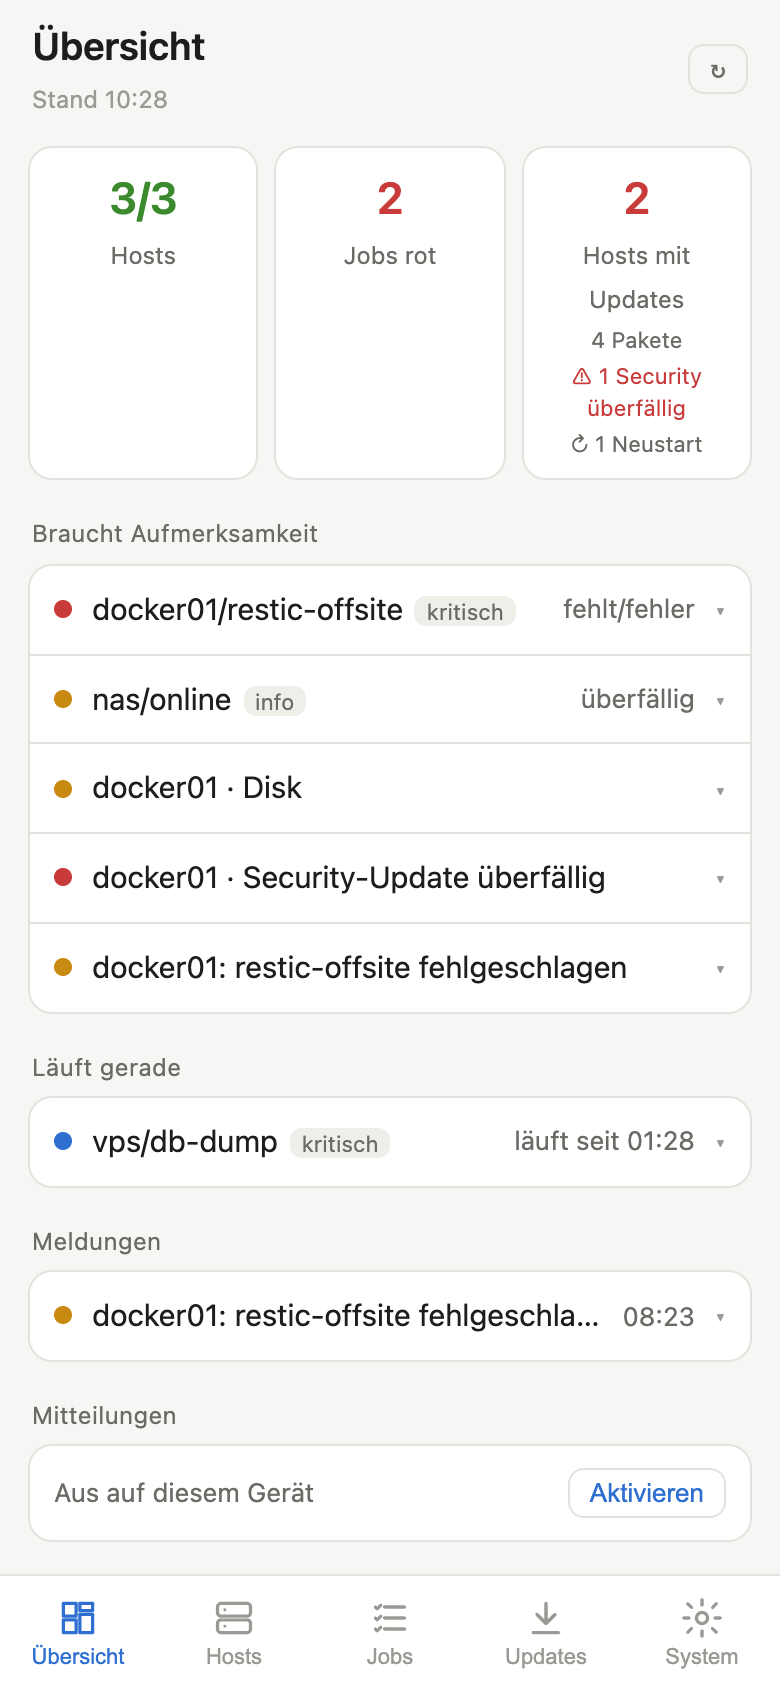
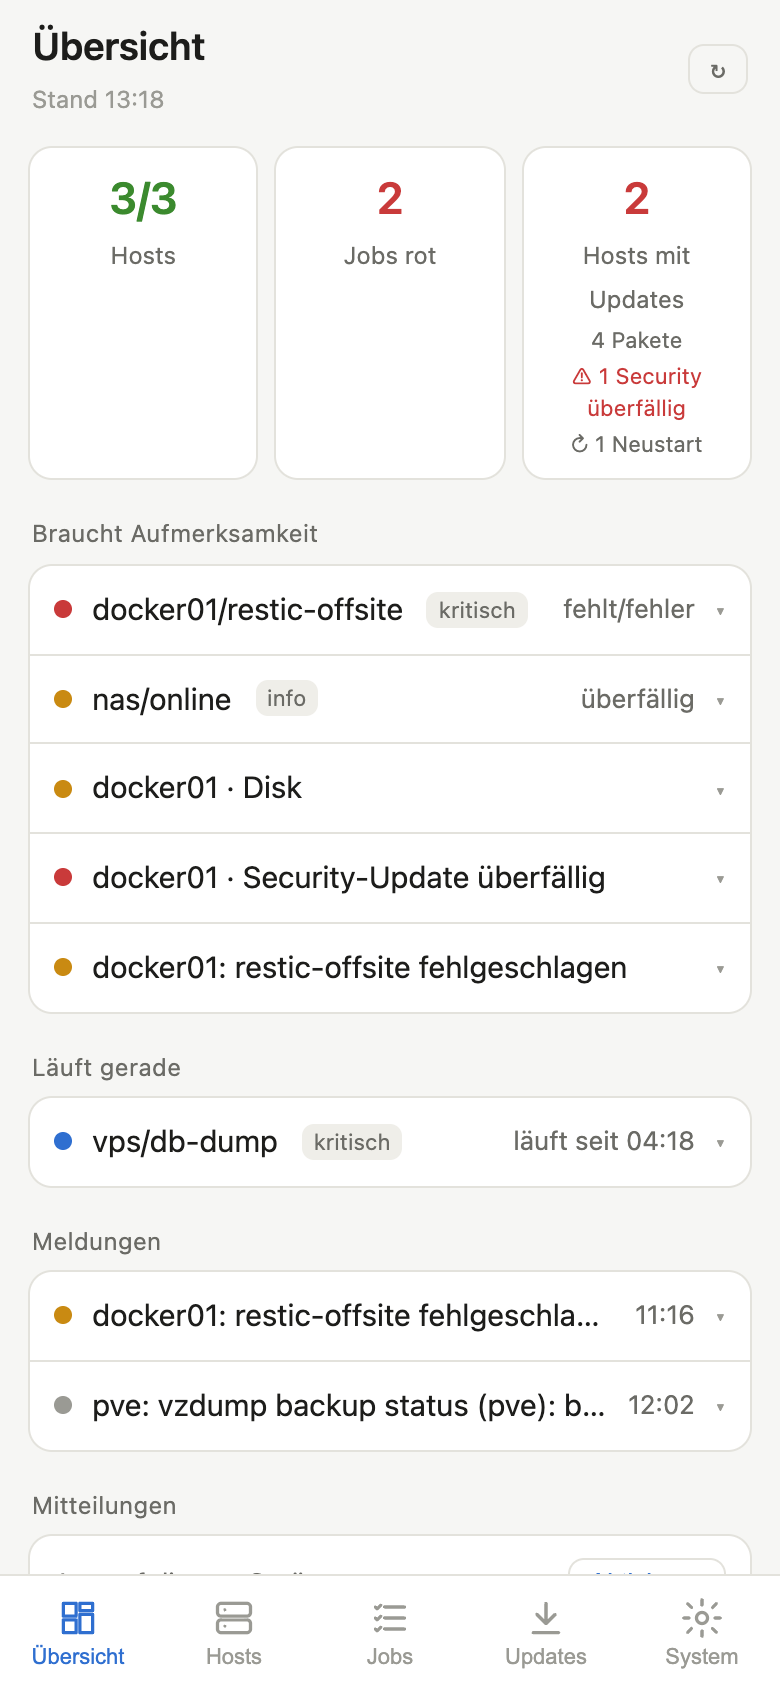
Fix truncated names in list rows on narrow screens

diff --git a/app/static/index.html b/app/static/index.html
@@ -28,8 +28,9 @@ main{padding:0 14px calc(env(safe-area-inset-bottom) + 84px);max-width:640px;mar
 .hd{display:flex;align-items:center;gap:10px;padding:11px 12px;cursor:pointer;-webkit-tap-highlight-color:transparent}
 .d{width:9px;height:9px;border-radius:50%;flex:none;background:var(--tx3)}
 .d.ok{background:var(--ok)}.d.bad{background:var(--bad)}.d.warn{background:var(--warn)}.d.run{background:var(--acc)}
-.n{flex:1;min-width:0;white-space:nowrap;overflow:hidden;text-overflow:ellipsis}
-.m{color:var(--tx2);font-size:13px;white-space:nowrap}
+.n{flex:0 1 auto;min-width:0;white-space:nowrap;overflow:hidden;text-overflow:ellipsis}
+.tg{flex:0 1000000 auto;min-width:0;display:flex;overflow:hidden;white-space:nowrap;margin-left:-4px}
+.m{flex:0 1000 auto;min-width:min-content;margin-left:auto;color:var(--tx2);font-size:13px;text-align:right;line-height:1.35}
 .cv{color:var(--tx3);transition:transform .15s;font-size:12px}.op .cv{transform:rotate(180deg)}
 .bd{display:none;padding:0 12px 12px 31px}.op .bd{display:block}
 .log{background:var(--chip);border-radius:8px;padding:8px 10px;font:12px/1.5 var(--mono);color:var(--tx2);white-space:pre-wrap;word-break:break-word;max-height:320px;overflow:auto}
@@ -70,7 +71,7 @@ function rel(iso){if(!iso)return'nie';const s=(Date.now()-new Date(iso))/1000;if
 function dur(sec){if(sec==null)return'';sec=Math.round(sec);return sec<60?sec+' s':sec<3600?Math.round(sec/60)+' min':(sec/3600).toFixed(1)+' h'}
 const CS={up:'ok',new:'',paused:'',grace:'warn',down:'bad',started:'run'};
 function chkMeta(c){if(c.status==='started')return c.last_ping?'läuft seit '+rel(c.last_ping):'läuft';if(c.status==='down')return'fehlt/fehler';if(c.status==='grace')return'überfällig';if(c.status==='new')return'neu';if(c.status==='paused')return'pausiert';return rel(c.last_ping)+(c.last_duration?' · '+dur(c.last_duration):'')}
-function item(id,dot,name,meta,body){return`<div class="it${open.has(id)?' op':''}" data-id="${esc(id)}"><div class="hd"><span class="d ${dot}"></span><span class="n">${name}</span><span class="m">${meta}</span><span class="cv">▾</span></div><div class="bd">${body}</div></div>`}
+function item(id,dot,name,meta,body){const ti=name.indexOf('<span class="tag">'),nm=ti<0?name:name.slice(0,ti),tg=ti<0?'':name.slice(ti);return`<div class="it${open.has(id)?' op':''}" data-id="${esc(id)}"><div class="hd"><span class="d ${dot}"></span><span class="n">${nm}</span>${tg?`<span class="tg">${tg}</span>`:''}<span class="m">${meta}</span><span class="cv">▾</span></div><div class="bd">${body}</div></div>`}
 function chkAdmin(c){if(!isAdmin()||!c.uuid)return'';return`<div class="kv" style="margin-top:8px;align-items:center"><span>Priorität <select class="sm" data-prio="${esc(c.uuid)}">${['kritisch','normal','info'].map(p=>`<option${p===c.prio?' selected':''}>${p}</option>`).join('')}</select></span><span>${c.status==='paused'?`<button class="bt" data-ck="resume:${esc(c.uuid)}">Fortsetzen</button>`:`<button class="bt" data-ck="pause:${esc(c.uuid)}">Pausieren</button>`}<button class="bt" data-job="edit:${esc(c.uuid)}">Bearbeiten</button><button class="bt" data-job="del:${esc(c.uuid)}">Löschen</button></span></div>`}
 function chkItem(c,label){return item('c:'+c.uuid,CS[c.status]||'',esc(label??c.name)+(c.prio&&c.prio!=='normal'?`<span class="tag">${esc(c.prio)}</span>`:''),esc(chkMeta(c)),`<div class="log" data-log="${esc(c.uuid)}">Lade Log …</div>${chkAdmin(c)}${chkGuide(c)}<a class="lk" href="${esc(S.links.hc)}" target="_blank" rel="noopener">Verlauf in Healthchecks ↗</a>`)}
 // ---- Jobs in der Oberfläche anlegen, bearbeiten, löschen; Anleitungen je Meldeweg

diff --git a/CHANGELOG.md b/CHANGELOG.md
@@ -6,6 +6,9 @@ mit Quellcode, Installationspaket, `install.sh`, `compose.yaml`, SBOM und Prüfs
 
 ## Unveröffentlicht
 
+### Behoben
+- Listen auf schmalen Bildschirmen: Host- und Job-Namen werden nicht mehr abgeschnitten („docke…“). Bei Platzmangel werden zuerst die kleinen Schilder ausgeblendet, dann bricht die Zusatzinfo rechts um; nur sehr lange Titel werden gekürzt.
+
 ## 0.2.0 – 2026-11-25
 
 ### Neu
